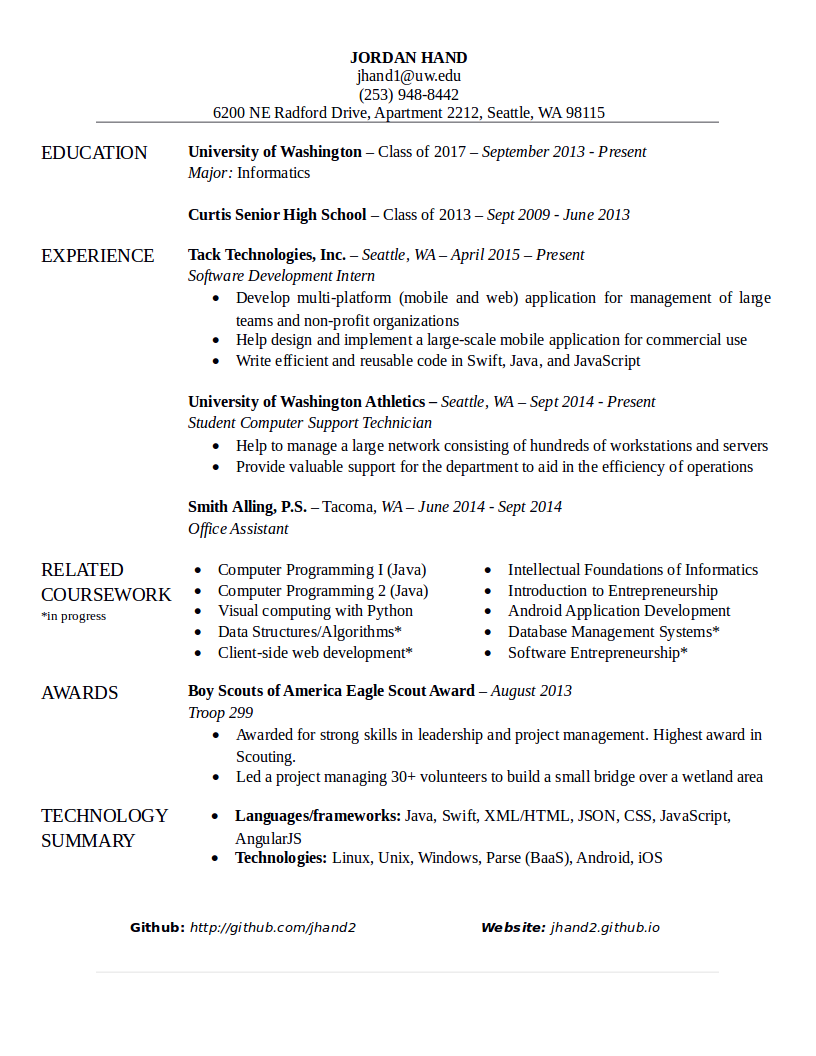
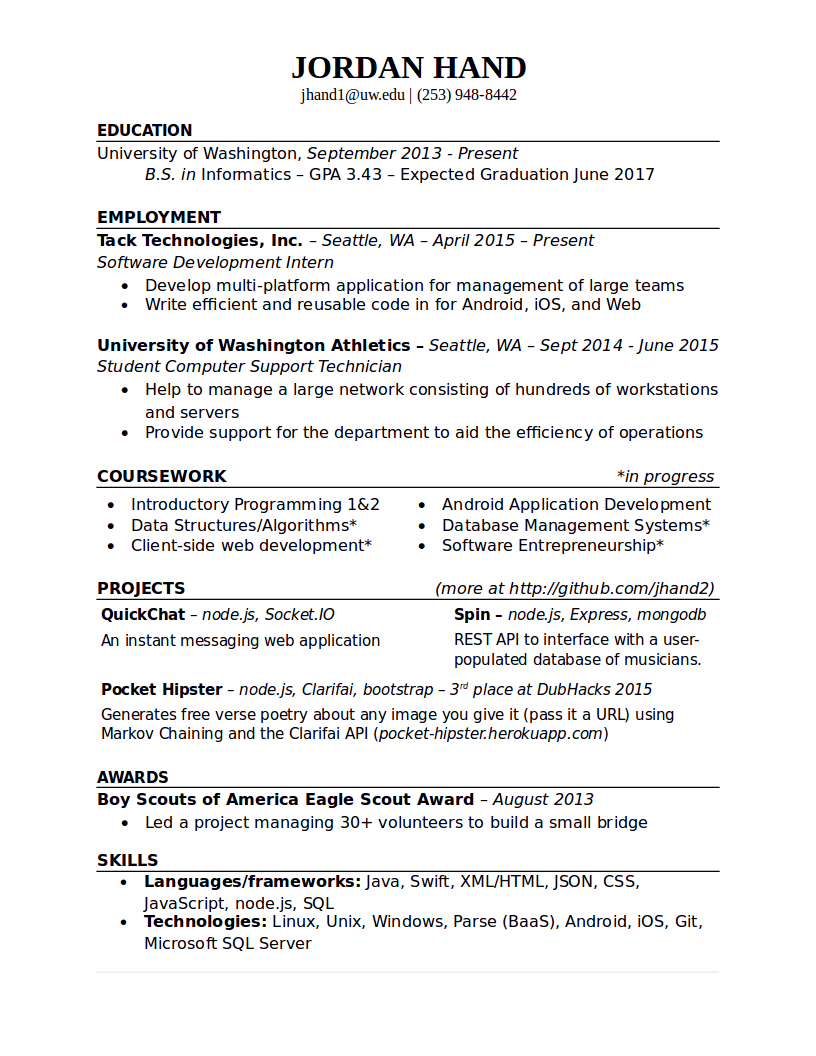
added projects

Changed region(s): [[0.0306, 0.0312, 0.9498, 0.9062], [0.8272, 0.8438, 0.8578, 0.875]]

diff --git a/index.html b/index.html
@@ -14,39 +14,39 @@
 
 	<!-- my css -->
 	<link rel="stylesheet" type="text/css" href="css/styles.css">
+	<link rel="stylesheet" type="text/css" href="../css/resume.css">
 
 	<!-- Angular -->
-	<script src="https://ajax.googleapis.com/ajax/libs/angularjs/1.4.5/angular.min.js"></script>
+	<script src="https://ajax.googleapis.com/ajax/libs/angularjs/1.4.5/angular.js"></script>
+	<script src="https://cdnjs.cloudflare.com/ajax/libs/angular-ui-router/0.2.15/angular-ui-router.js"></script>
+	<script src="https://ajax.googleapis.com/ajax/libs/angularjs/1.4.5/angular-animate.js"></script>
+
+	<!-- Parse -->
+	<script src="//www.parsecdn.com/js/parse-1.6.7.min.js"></script>
 
 	<script src="./js/app.js"></script>
+	<script src="./js/appRoutes.js"></script>
 	<script src="./js/services/project-service.js"></script>
 	<script src="./js/controllers/main-ctrl.js"></script>
+	<script src="./js/controllers/projects-controller.js"></script>
+	<script src="./js/directives/grid-directive.js"></script>
 </head>
-<body>
-		<!-- <div class="row text-center name">
-			<a href="index.html" class="btn vert-align">
-				<h1 class="text-center" id="name-header">Jordan Hand.</h1>
-			</a>
-		</div>
+<body ng-app="portfolio">
+	<nav role="navigation" class="navbar">
+		<div class="navbar-header">
+	    	<a class="navbar-brand" ui-sref="home">Jordan Hand</a>
+	    </div>
 
-		<div class="row text-center links">
-			<div class="social-buttons row text-right vert-align">
-				<a class="btn btn-social-icon btn-github" href="https://github.com/jhand2">
-					<i class="fa fa-github fa-3x"></i>
-				</a>
-				<a class="btn btn-social-icon btn-linkedin" href="https://www.linkedin.com/pub/jordan-hand/98/750/903">
-					<i class="fa fa-linkedin fa-3x"></i>
-				</a>
-				<a href="./views/resume.html" class="btn vert-align">
-					<h3>resume</h3>
-				</a>
-			</div>
-		</div>
 
-		<div class="about row text-center">
-			<p class="about-text">I write software to solve problems I encounter.</p>
-			<p >Currently a Mobile Developer @ Tack Technologies, Inc.</p>
+		<div class="collapse navbar-collapse">
+			<ul class='navbar-right navbar-nav nav'>
+				<li><a ui-sref="projects">Projects</a></li>
+				<li><a ui-sref="#">About</a></li>
+				<li><a ui-sref="resume">Resume</a></li>
+			</ul>
 		</div>
-	</div> -->
+	</nav>
+
+	<div ui-view></div>
 </body>
 </html>

diff --git a/css/styles.css b/css/styles.css
@@ -1,72 +1,84 @@
-#name-header {
-	padding-left: 5%;
+a, a:hover {
+	text-decoration: none;
 }
 
-:focus {outline:none !important;}
-
-.vert-align {
-    display: inline-block;
-    vertical-align: bottom;
-    margin-bottom: 0px;
+#profile-pic {
+	height: 300px;
+	width: 300px;
+	border-radius: 50%;
+	box-shadow: 2px 2px 5px 0px rgba(0, 0, 0, 1);
 }
 
-a {
-	display: inline-block;
-    vertical-align: middle;
+.project-tile {
+	border-radius: 5px;
+	box-shadow: 2px 2px 5px 0px rgba(0, 0, 0, 1);
+	margin: 20px;
+	padding: 0px;
 }
 
-h1, h2, h3 {
-	vertical-align: bottom;
+.flex-div {
+	display: -webkit-flex;
+    display: -ms-flexbox;
+    display: flex;
+ 
+    -webkit-flex-wrap: wrap;
+    -ms-flex-wrap: wrap;
+    flex-wrap: wrap;
 }
 
-html {
-	height: 100%;
-	background-size: cover;
-	background-image: url(../res/sunset.png);
-	background-repeat: no-repeat;
-	background-position: top left;
+.thumbnail {
+	border: none;
+	padding: 0px;
+	border-radius: 5px 5px 0px 0px;
+	overflow: hidden; 
 }
 
-body {
-	background: transparent;
+.tile-thumbnail {
+	/*border-radius: 5px;*/
+	overflow: hidden; 
 }
 
-.row {
-	margin: 0px;
+#profile-pic {
+	display: block;
+	margin: auto;
+	margin-top: 2em;
+	margin-bottom: 2em;
 }
 
-.btn {
-	color: white;
+.info-text {
+	font-size: 1.65em;
+	font-weight: bold;
 }
 
-.btn:hover {
-	color: #8AB8E6;
+.project-info {
+	margin-left: 12px;
+	display: block;
 }
 
-p {
-	color: white;
+.project-title {
+	font-size: 1.5em;
+	font-weight: bold;
+	display: block;
 }
 
-.name {
-	margin-top: 5%;
-	margin-bottom: 5%;
+.fade {
+	opacity: 1;
 }
 
-.links {
-	height: 10vh;
-	margin-bottom: 5%;
+.fade.ng-enter {
+  transition:0.5s linear all;
+  opacity:0;
 }
 
-.about {
-	font-size: 2em;
+/* The finishing CSS styles for the enter animation */
+.fade.ng-enter.ng-enter-active {
+  opacity:1;
 }
 
-nav {
-	border-radius: 0px;
+.fade.ng-leave {
+  transition:0.2s linear all;
+  opacity:1;
 }
-
-@media (min-width: 768px) {
-	.navbar {
-		border-radius: 0px;
-	}
+.fade.ng-leave.ng-leave-active {
+  opacity:0;
 }

diff --git a/js/services/project-service.js b/js/services/project-service.js
@@ -1,3 +1,23 @@
-angular.module('ProjectService').service('Project', [function() {
+angular.module('ProjectService', []).service('ProjectService', ['$http', function($http) {
+	var data = {};
+	var appId = 'vXlQJ1pQO9QfY11JhZhx5nrihIJAx7myRXSr6Had';
+	var restKey = 'nJaTarpoUTLlZwVPnQmYa6lrKNGbUKnj8II63Pld';
+	var baseUrl = 'https://api.parse.com/1';
 
+	data.getProjects = function(callback) {
+		var url = baseUrl + '/classes/Project';
+		$http({method:'GET', url: url, headers: { 'X-Parse-Application-Id':appId, 'X-Parse-REST-API-Key':restKey}}).success(function(res) {
+			callback(res.results);
+		});
+	}
+
+	data.addProject = function(projectData) {
+
+	}
+
+	data.removeProject = function(projectId) {
+
+	}
+
+	return data;
 }]);

diff --git a/js/appRoutes.js b/js/appRoutes.js
@@ -1,0 +1,19 @@
+angular.module('appRoutes', ['ui.router']).config(function($stateProvider, $urlRouterProvider) {
+	$urlRouterProvider.otherwise('/home');
+
+	$stateProvider
+		.state('home', {
+			url: '/home',
+			templateUrl: './views/main.html',
+			controller: 'MainCtrl'
+		})
+		.state('resume', {
+			url: '/resume',
+			templateUrl: './views/resume.html'
+		})
+		.state('projects', {
+			url: '/projects',
+			templateUrl: './views/projects.html',
+			controller: 'ProjectsCtrl'
+		});
+});

diff --git a/views/projects.html b/views/projects.html
@@ -1,0 +1,9 @@
+<div class='flex-div'>
+	<div ng-repeat="p in projects" ng-animate='animate' class="col-xs-10 col-sm-5 col-md-3 col-lg-2 project-tile fade">
+		<div class="thumbnail">
+			<img class="tile-thumbnail" src="../res/sunset.png">
+		</div>
+		<p class='project-info project-title'>{{p.title}}</p>
+		<p class='project-info'>{{p.description}}</p>
+	</div>
+</div>

diff --git a/js/controllers/projects-controller.js b/js/controllers/projects-controller.js
@@ -1,0 +1,12 @@
+angular.module('ProjectsCtrl', []).controller('ProjectsCtrl', function($scope, ProjectService) {
+	$scope.projects = [];
+
+	ProjectService.getProjects(function (data) {
+		$scope.projects = data;
+		console.log(data);
+	});
+
+	$scope.init = function() {
+		
+	}
+});

diff --git a/views/resume.html b/views/resume.html
@@ -1,10 +1,1 @@
-<!DOCTYPE html>
-<html>
-<head>
-	<title>Resume</title>
-	<link rel="stylesheet" type="text/css" href="../css/resume.css">
-</head>
-<body>
-	<img src="../res/resume-jordan-hand-v2.png"/>
-</body>
-</html>
+<img class="resume" src="../res/resume-jordan-hand.png"/>

diff --git a/views/main.html b/views/main.html
@@ -1,0 +1,6 @@
+<div class='col-xs-12'>
+	<img id="profile-pic" src="../res/sunset.png">
+
+	<p class="text-center info-text">Informatics Student @ UW</p>
+	<p class="text-center info-text">Mobile Developer @ Tack Technologies, Inc.</p>
+</div>

diff --git a/js/directives/grid-directive.js b/js/directives/grid-directive.js
@@ -1,0 +1,8 @@
+angular.module('GridDirective', []).directive('gridDirective', function () {
+    return {
+      restrict: 'A',
+      link: function (scope, element) {
+         console.log(element[0].offsetHeight);
+      }
+    }
+});

diff --git a/js/app.js b/js/app.js
@@ -1,1 +1,9 @@
-angular.module('app', ['MainCtrl']);
+angular.module('portfolio', 
+	['MainCtrl',
+	'ProjectsCtrl',
+	'ui.router', 
+	'appRoutes',
+	'ProjectService',
+	'GridDirective',
+	'ngAnimate']
+);

diff --git a/css/resume.css b/css/resume.css
@@ -1,5 +1,4 @@
-img {
-	width: 45em;
+.resume {
 	display: block;
 	margin-right: auto;
 	margin-left: auto;
